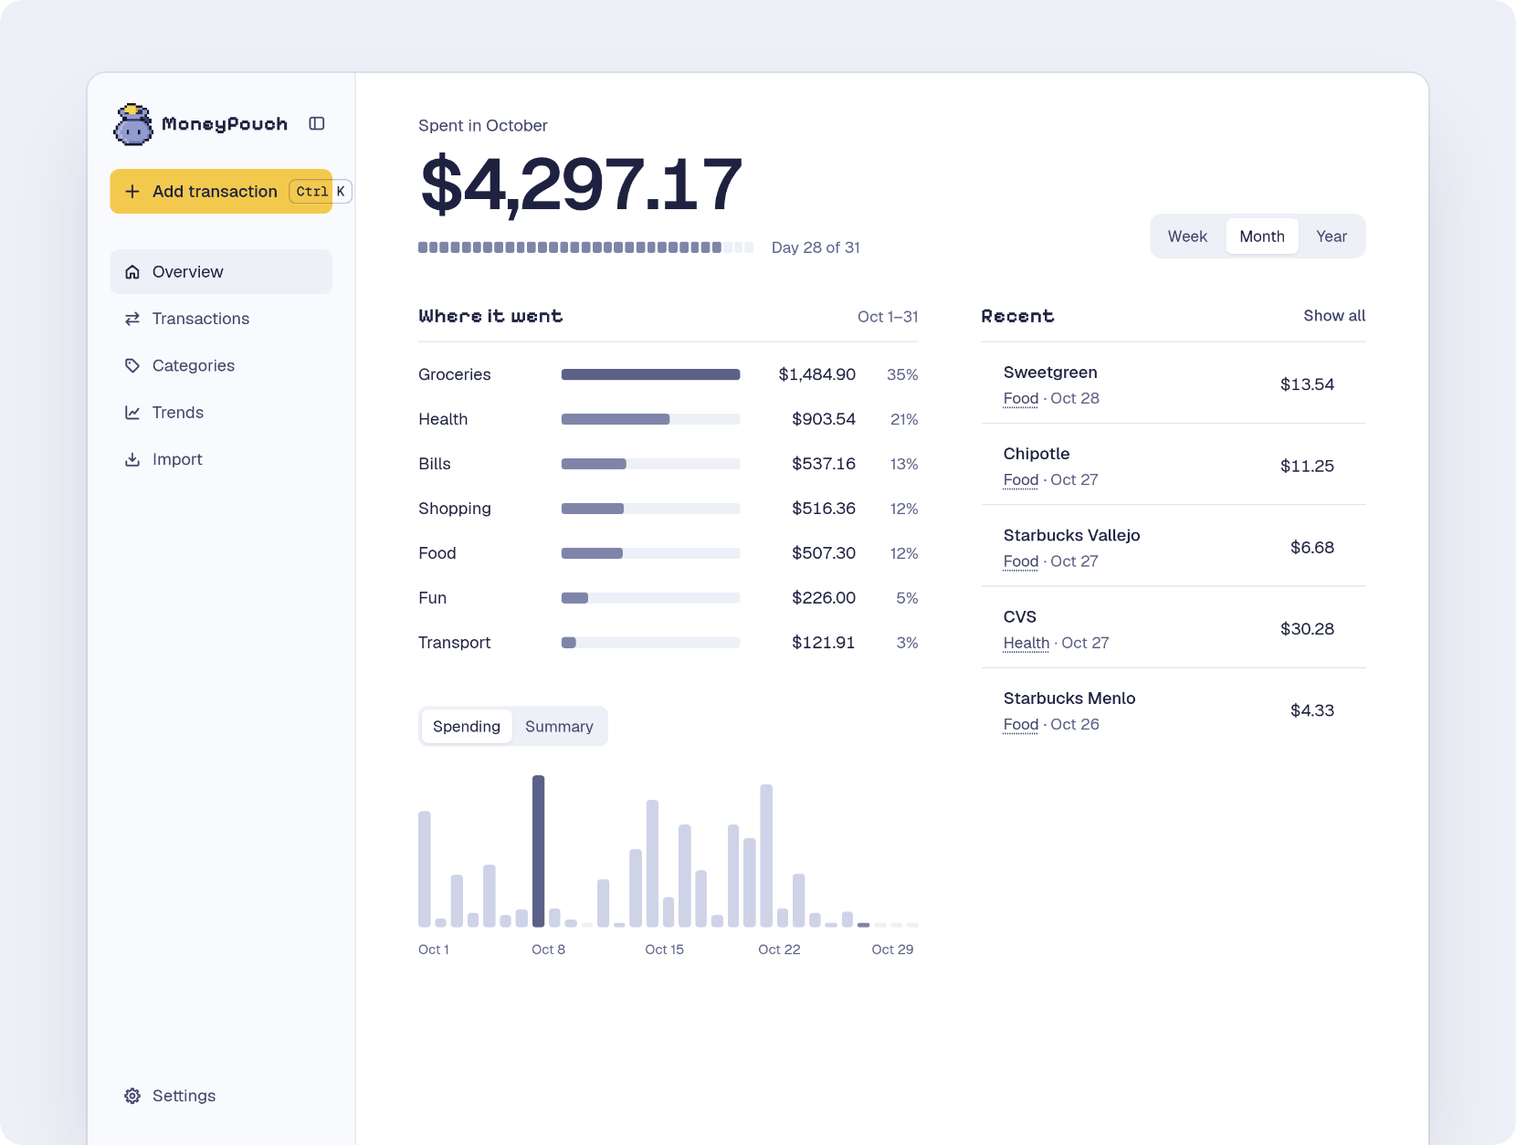
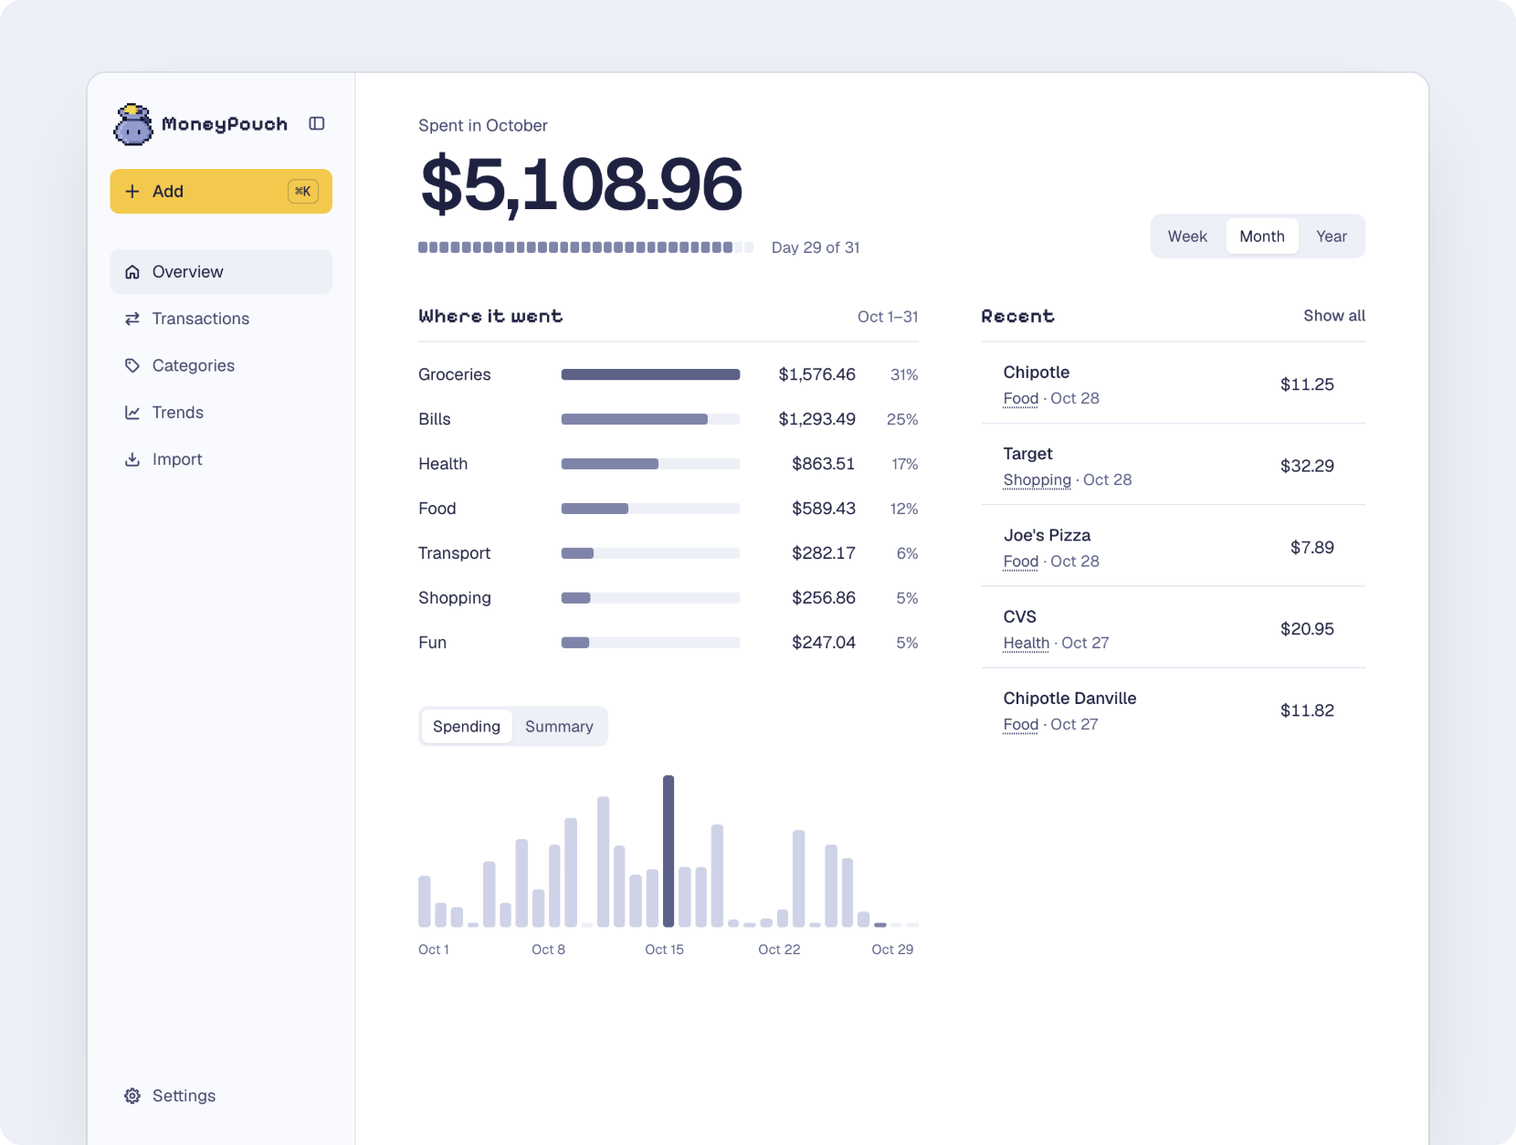
fix(sidebar): keep the Ctrl K chip inside the Add button (#186)
* fix(sidebar): keep the Ctrl K chip inside the Add button

Off a Mac the sidebar's Add transaction button ran its Ctrl K chip 18px
past its right edge. The label is now Add, which fits either chip, and
the sidebar toggle's tooltip names Ctrl B off a Mac instead of always ⌘B.

The verify driver gains a platform command to render as Windows, Mac,
or Linux, and the README script pins Mac so its images match on any host.

* docs(readme): regenerate screenshots with the Add button

diff --git a/test/controllers/welcome_controller_test.rb b/test/controllers/welcome_controller_test.rb
@@ -350,6 +350,16 @@ class WelcomeControllerTest < ActionDispatch::IntegrationTest
     assert_select "html[data-sidebar=expanded]"
   end
 
+  test "names the sidebar shortcut for the browser's platform" do
+    get root_url
+
+    assert_select "button[aria-label='Toggle sidebar'][title=?]", "Toggle sidebar (Ctrl B)"
+
+    get root_url, headers: { "HTTP_USER_AGENT" => "Mozilla/5.0 (Macintosh; Intel Mac OS X 10_15_7) Chrome/130.0" }
+
+    assert_select "button[aria-label='Toggle sidebar'][title=?]", "Toggle sidebar (⌘B)"
+  end
+
   test "marks the added row, shows the toast, and empties the field" do
     post transactions_url, params: { shorthand: "tea 3", idempotency_key: "key-1" }, headers: { "HTTP_REFERER" => root_url }
     follow_redirect!

diff --git a/test/controllers/settings_controller_test.rb b/test/controllers/settings_controller_test.rb
@@ -36,7 +36,7 @@ class SettingsControllerTest < ActionDispatch::IntegrationTest
   test "the sidebar opens the add palette here too" do
     get settings_url
 
-    assert_select "aside button[aria-haspopup=dialog][data-action='dialog-opener#open'][data-dialog-opener-id-param=palette]", text: /Add transaction/
+    assert_select "aside button[aria-haspopup=dialog][data-action='dialog-opener#open'][data-dialog-opener-id-param=palette]", text: /Add/
     assert_select "header button[data-dialog-opener-id-param=palette]", text: /Add/
     assert_select "dialog#palette form[action=?] input[name=shorthand]", transactions_path
   end

diff --git a/.claude/skills/verify-moneypouch/features/composer.md b/.claude/skills/verify-moneypouch/features/composer.md
@@ -9,11 +9,11 @@ Status: built, Q1 to Q6. Every handle below is in the code.
 - Q3, Tab completion. Built, server side. There is no `/completions` endpoint and no name list in the page. While the caret is at the end of the field the preview URL adds `complete=1`, and `Voucher.new(..., complete: true)` looks up the user's kept names that start with the shorthand (2 or more non-space characters, no digit, `#`, `@`, `$`, or `+`), ranked by use count then latest `occurred_on`, and keeps the first longer than the shorthand. The mirror then shows the rest of the completed name dimmed after the caret, then a `Tab` chip, and the status line shows the completed name's category. The row carries `data-shorthand` (the shorthand it was rendered for) and `data-completion` (the full completed name, absent when there is none). Tab replaces the shorthand with that name and a space only when `data-shorthand` equals the field value and the caret is at the end, so `tra` plus Tab gives `Trader Joe's `. Otherwise Tab keeps its normal focus move to `Add ↵`.
 - Q4, `#` category list. Built. The field is `role="combobox"` with `aria-autocomplete="list"`, `aria-controls="composer-popup"`, and `aria-expanded`. The list is `#composer-popup[role="listbox"]`. It opens below the panel (`top-full`) at every width, so the row it previews stays readable, with its left edge under the word at the caret and clamped inside the bar. Up to 8 options show with no scrollbar (`POPUP_SIZES.category` sizes the cap from `--text-base--line-height`, so it follows the type scale), and a longer list scrolls inside, keeping the selected option in view. Options are `#composer-option-<n>[role="option"]` with exactly one `aria-selected="true"`, which the field names in `aria-activedescendant`. The names come from the bar's `data-composer-categories-value` (the user's categories by name, refreshed by the morph after each add), filtered by case-insensitive prefix of the word after `#`. The preview row's `data-inferred-category` goes first. When the word is not exactly a category, the list ends with `New category <word>`. Up and Down move, and a real pointer move over an option selects it, so exactly one option is tinted. An option that opens or redraws under a resting pointer is not selected, so the inferred category stays first and selected. The preview always reads the field as typed, so moving through the list changes nothing under the field. On a bare `#` the row keeps inferring, so it stays the source of the category that leads the list. Tab, Enter, or a click (`mousedown`, so focus stays) write `#<Category> `. Esc closes the list and keeps the text; the palette stays open. The list stays closed only while the caret word is the dismissed one, so deleting the `#` and typing it again reopens it. Enter submits only while no popup is open. A bare `#` is a category marker with no word, so `Trader Joe's 64.12 #` previews the inferred category.
 - Q5, `@` calendar. Built. When the word at the caret is exactly `@`, `#composer-popup` opens below the panel like the category list and shows a month: `‹` and `›` buttons (`[data-months]`), the month title, a `role="grid"` named for the month with `role="row"` weeks and `role="gridcell"` days `#composer-day-YYYY-MM-DD`, and the hints `←↑↓→` move, `↵` pick, `esc` cancel. It always opens on today, which the server supplies as `data-composer-today-value` in the user's zone. The cursor day has `aria-selected="true"` and is the field's `aria-activedescendant`. Left and Right move a day, Up and Down a week, PageUp and PageDown a month with the day clamped to the month's last day. Future days are disabled and greyed, and the cursor stops at today, all behind the controller's one `max` getter. The preview reads the field as typed, so moving the cursor changes nothing under the field. A real pointer move over a past day moves the cursor there, and a grid that redraws under a resting pointer leaves the cursor alone. Tab, Enter, or a click replaces the `@` with `@today`, `@yesterday`, `@sep 24` (this year), or `@sep 24 2025` (another year) plus a space, and the parser reads every date with or without the `@`. Esc closes the calendar and keeps the `@`. Any other key types itself, which closes the calendar. With the caret at the end of `@` plus letters that start `today`, `yesterday`, or a weekday, the mirror shows the rest dimmed with a `Tab` chip, and Tab writes the whole word, so `@y` Tab gives `@yesterday `. The month math and the month markup live in `app/javascript/controllers/composer/calendar.js`.
-- Q6, ⌘K palette. Built. On every page with the sidebar the composer lives in `app/views/shared/_palette.html.erb` under `data-controller="palette"` (`app/javascript/controllers/palette_controller.js`), rendered once by `app/views/shared/_sidebar.html.erb`. `PaletteHelper` supplies its voucher, category names, and just-added row from the flash, so a page needs no instance variables for it. The sidebar shows `Add transaction` with a key chip, `⌘K` when the user agent says Macintosh and `Ctrl K` otherwise (`shortcut("K")` in `TransactionsHelper`); below `md` the top bar shows `Add` (see [sidebar.md](sidebar.md)). A click on either, or ⌘K or Ctrl+K anywhere on the page, calls `showModal()` on `dialog#palette` (`aria-label="Add a transaction"`). The field takes focus. The dialog is 640px wide, centered on the window whatever the sidebar's state, 22vh from the top at `lg` and up and 16px from the top below it, over a `::backdrop` filled with the `scrim` token. Inside, the composer shows an `esc` chip before `Add ↵`. The dialog closes on Esc, a click on the scrim, or ⌘K or Ctrl+K again. Every close fires the dialog's `close` event, and `palette#clear` calls `composer#clear` through the `composer` outlet: the field empties, the preview returns to the legend, and a dismissed `#` list opens again for the same word. Esc while the `#` list or `@` calendar is open goes to the popup only, because the composer's `preventDefault` suppresses the dialog's cancel. The palette stays open after an add, so several adds run back to back. Turbo's morph would strip the `open` attribute, so `palette#keepOpen` cancels `turbo:before-morph-attribute` for it. The same guard keeps it open through the refresh another tab's change broadcasts. On a touch screen (`pointer: coarse`) both key chips are hidden. `/first_transaction` renders the composer inline with no palette and no trigger.
+- Q6, ⌘K palette. Built. On every page with the sidebar the composer lives in `app/views/shared/_palette.html.erb` under `data-controller="palette"` (`app/javascript/controllers/palette_controller.js`), rendered once by `app/views/shared/_sidebar.html.erb`. `PaletteHelper` supplies its voucher, category names, and just-added row from the flash, so a page needs no instance variables for it. The sidebar shows `Add` with a key chip, `⌘K` when the user agent says Macintosh and `Ctrl K` otherwise (`shortcut("K")` in `TransactionsHelper`); below `md` the top bar shows `Add` (see [sidebar.md](sidebar.md)). A click on either, or ⌘K or Ctrl+K anywhere on the page, calls `showModal()` on `dialog#palette` (`aria-label="Add a transaction"`). The field takes focus. The dialog is 640px wide, centered on the window whatever the sidebar's state, 22vh from the top at `lg` and up and 16px from the top below it, over a `::backdrop` filled with the `scrim` token. Inside, the composer shows an `esc` chip before `Add ↵`. The dialog closes on Esc, a click on the scrim, or ⌘K or Ctrl+K again. Every close fires the dialog's `close` event, and `palette#clear` calls `composer#clear` through the `composer` outlet: the field empties, the preview returns to the legend, and a dismissed `#` list opens again for the same word. Esc while the `#` list or `@` calendar is open goes to the popup only, because the composer's `preventDefault` suppresses the dialog's cancel. The palette stays open after an add, so several adds run back to back. Turbo's morph would strip the `open` attribute, so `palette#keepOpen` cancels `turbo:before-morph-attribute` for it. The same guard keeps it open through the refresh another tab's change broadcasts. On a touch screen (`pointer: coarse`) both key chips are hidden. `/first_transaction` renders the composer inline with no palette and no trigger.
 
 ## How to get to it (user POV)
 
-Sign in, and on any page press ⌘K or click `Add transaction` in the sidebar, then type. The composer is one panel: the field on top, the preview frame attached under it as a footer, and the `#` and `@` popups below the panel. On `/first_transaction` the same panel is inline, with no palette. Everything happens in that one field with the keyboard. The only other surfaces are Recent on the same page, the toast, and `/transactions` for discarding a row.
+Sign in, and on any page press ⌘K or click `Add` in the sidebar, then type. The composer is one panel: the field on top, the preview frame attached under it as a footer, and the `#` and `@` popups below the panel. On `/first_transaction` the same panel is inline, with no palette. Everything happens in that one field with the keyboard. The only other surfaces are Recent on the same page, the toast, and `/transactions` for discarding a row.
 
 ## Driving it with mp.mjs
 

diff --git a/.claude/skills/verify-moneypouch/SKILL.md b/.claude/skills/verify-moneypouch/SKILL.md
@@ -37,7 +37,7 @@ Per-instance state lives in `tmp/verify/<port>/` (gitignored): `state.json`, `se
 $M doctor --port 3101
 ```
 
-Prints JSON with `serverAlive`, `chromeAlive`, `holderAlive`, `up` (the `/up` status), the current `url`, `mode`, `theme`, the recorded `viewport`, the live `inner` size, the emulated `timezone`, and the mp4 path being `recording`, if any. Exit 1 when the server or Chrome is down, `/up` is not 200, the viewport holder is dead, or `inner` differs from `viewport`. Run it first whenever a drive behaves oddly. A port that is busy with a process this skill did not start makes `boot` refuse with an error instead of attaching.
+Prints JSON with `serverAlive`, `chromeAlive`, `holderAlive`, `up` (the `/up` status), the current `url`, `mode`, `theme`, the recorded `viewport`, the live `inner` size, the emulated `timezone` and `platform`, and the mp4 path being `recording`, if any. Exit 1 when the server or Chrome is down, `/up` is not 200, the viewport holder is dead, or `inner` differs from `viewport`. Run it first whenever a drive behaves oddly. A port that is busy with a process this skill did not start makes `boot` refuse with an error instead of attaching.
 
 ## Drive
 
@@ -61,10 +61,11 @@ Prints JSON with `serverAlive`, `chromeAlive`, `holderAlive`, `up` (the `/up` st
 | Read-only query | `$M query 'Transaction.count'` |
 | Restart the server under the page | `$M server stop --port N` kills only the Rails server; Chrome, the page, the field text, and focus stay. Requests now fail as they would on a dropped server. `$M server start --port N` starts it again and waits for `/up` without touching the page. |
 | Browser time zone | `$M zone Pacific/Kiritimati --port N`, then `$M goto / --port N` so the page reads it on load. The holder keeps the override between commands. `$M zone off` returns to the host zone. `doctor` prints it. This changes what the browser reports, the real path, so prefer it over writing a cookie with `js`. |
+| Browser platform | `$M platform windows --port N`, then `$M goto / --port N` so the server reads it. Sends a Windows, Mac (`mac`), or Linux (`linux`) user agent and `navigator.platform`, so shortcut chips render as `Ctrl K` or `⌘K`. The holder keeps the override between commands. `$M platform off` returns to the host's own. `doctor` prints it. |
 | Video | `$M record start /tmp/x/review.mp4 --port N`, drive, `$M record stop --port N`. Prints the path, length, and frame count. A detached recorder screencasts the page at the viewport size, and `stop` encodes 30 fps H.264 with `ffmpeg` (must be on PATH). Frames arrive only when the page changes, and the encoder holds each one until the next, so wall time is kept. |
 | Keypress-to-paint latency | `$M latency a --end turbo:frame-render --log /tmp/x/lat.jsonl --port N` presses the key and prints ms from its `keydown` timestamp to the first paint after the named event fires on the document (any bubbling event: `turbo:frame-render`, `turbo:morph`, `turbo:render`). `--end paint` measures to the next paint with no event, for client-only UI such as a menu or calendar. It first waits until the event has been quiet for 250 ms, so a late render from an earlier key is not counted. A sample with no event in 5 s logs `null` and exits 1. `$M latency --report /tmp/x/lat.jsonl` prints `{"n","timeouts","p50","p95","max"}`. |
 
-Common handles: the sidebar's Add transaction button `aside button[data-dialog-opener-id-param=palette]` and `dialog#palette` (open it with `key Meta+k` before typing on any page with the sidebar), composer input `[aria-label="Add"]`, preview frame `turbo-frame#voucher`, popup `#composer-popup`, toast `[data-controller="toast"]` with Undo `[data-palette-target="undo"]`, theme buttons `button[data-theme="light"|"dark"]`, sign-in fields `#username` and `#password`, flash `#alert` and `#notice`, the Import page's file input `input[type=file]`. The full import list is in [features/import.md](features/import.md). The full composer list is in [features/composer.md](features/composer.md).
+Common handles: the sidebar's Add button `aside button[data-dialog-opener-id-param=palette]` and `dialog#palette` (open it with `key Meta+k` before typing on any page with the sidebar), composer input `[aria-label="Add"]`, preview frame `turbo-frame#voucher`, popup `#composer-popup`, toast `[data-controller="toast"]` with Undo `[data-palette-target="undo"]`, theme buttons `button[data-theme="light"|"dark"]`, sign-in fields `#username` and `#password`, flash `#alert` and `#notice`, the Import page's file input `input[type=file]`. The full import list is in [features/import.md](features/import.md). The full composer list is in [features/composer.md](features/composer.md).
 
 `query` evaluates the Ruby expression in `bin/rails runner` after reopening the database with SQLite `readonly: true`. `User.delete_all` and every other write fails with `SQLite3::ReadOnlyException`. The guard is the database connection, not a Ruby sandbox: `File.write` and `system` still run, so treat the expression as trusted input. It talks to the development database, so it needs no running instance.
 

diff --git a/.claude/skills/verify-moneypouch/features/sidebar.md b/.claude/skills/verify-moneypouch/features/sidebar.md
@@ -3,10 +3,10 @@
 ## Sub-features
 
 - Collapse to an icon rail and expand again with the panel button in the brand row. The state is `html[data-sidebar]`, `expanded` or `collapsed`, and persists in a `sidebar` cookie (`collapsed` when collapsed, anything else or no cookie means expanded). It is per device, with no database column.
-- ⌘B (Ctrl+B) toggles it from anywhere on the page, including while typing in the palette. The toggle button names the shortcut in its `title` and `aria-keyshortcuts`.
+- ⌘B (Ctrl+B) toggles it from anywhere on the page, including while typing in the palette. The toggle button names the shortcut in its `title` (`⌘B` on a Mac, `Ctrl B` elsewhere) and `aria-keyshortcuts`.
 - Expanded the sidebar is 240px wide. Collapsed it is 64px: the pouch and wordmark hide, the toggle sits alone in the brand row, and nav links and Settings are 40x36 icon squares.
 - Collapsed, each link's label becomes a tooltip to the right of the icon on hover and keyboard focus. The accessible name is the label in both states.
-- `Add transaction` sits between the brand row and the nav: a gold button with a plus icon and the `⌘K` chip (`Ctrl K` off a Mac, hidden on touch screens). It is `dialog-opener#open` for `dialog#palette`, which `_sidebar.html.erb` renders once on every page that has the sidebar. Collapsed it is a 40x36 gold plus square whose label is a tooltip like the links'. Below `md` it is hidden in the sheet, and the top bar shows a gold `Add` button at its right edge instead.
+- `Add` sits between the brand row and the nav: a gold button with a plus icon and the `⌘K` chip (`Ctrl K` off a Mac, hidden on touch screens). The label is the one word so the wider `Ctrl K` chip still fits inside the 240px sidebar. It is `dialog-opener#open` for `dialog#palette`, which `_sidebar.html.erb` renders once on every page that has the sidebar. Collapsed it is a 40x36 gold plus square whose label is a tooltip like the links'. Below `md` it is hidden in the sheet, and the top bar shows a gold `Add` button at its right edge instead.
 - `--container-sidebar` drops from 240px to 64px when collapsed, so the toast re-centers in the content area. The ⌘K palette is centered on the window and does not move.
 - The server renders `data-sidebar` and the toggle's `aria-expanded` from the cookie, so the first paint has no flash.
 - Below `md` the sidebar is a sheet. A top bar copies the brand row, and its button (`Show sidebar`) opens a modal `dialog[aria-label=Sidebar]`, 240px wide at the left edge, with the same links over a scrim. The page behind is inert and does not scroll. The open button sits at the left of the top bar, under the sheet, so only the sheet's `Hide sidebar` button shows. It closes on `Hide sidebar`, Escape, a tap on the scrim (the tap does not reach the page under it), any link (and stays closed on Back), a page morph, and a resize to `md` or wider. The collapsed cookie never shrinks the sheet.

diff --git a/.claude/skills/verify-moneypouch/features/overview.md b/.claude/skills/verify-moneypouch/features/overview.md
@@ -2,7 +2,7 @@
 
 ## Sub-features
 
-- The sidebar's `Add transaction` button with its `⌘K` chip, and `Add` in the top bar below `md`. Either, or ⌘K or Ctrl+K, opens the composer in `dialog#palette` over a scrim. See [composer.md](composer.md), Q6.
+- The sidebar's `Add` button with its `⌘K` chip, and `Add` in the top bar below `md`. Either, or ⌘K or Ctrl+K, opens the composer in `dialog#palette` over a scrim. See [composer.md](composer.md), Q6.
 - Spent total, category breakdown, and chart for one period, read by `Spending` over `Period` (`app/models/spending.rb`, `app/models/period.rb`). `/?period=week|month|year` picks it, and anything else means month. The heading reads `Spent this week`, `Spent in October`, or `Spent in 2026`. Under it, the day strip and `Day N of M`: days through today are slate (`bg-data`), the rest the pale track. Gold (`bg-highlight`) on the Overview is only for what needs the user: the `From your bank` count, the dots on rows that need a category, and the `Uncategorized` bar in the category list.
 - Every category is spending or income (`categories.income`), and every user starts with a built-in `Income` category (`User#income_category`). Spending is `Transaction.spending`: counted (`Transaction.counted`: not a transfer and not excluded), and either in a spending category (any sign) or money out with no category. Money in a spending category nets against it (a `+$20 #Groceries` refund lowers Groceries and the total by $20). Money in an income category, such as a typed `paycheck +2400`, stays out.
 - Where it went lists each category whose period nets above zero, largest first, with shares of the listed categories' sum. A category that only got money back is left out but still lowers the total. It lists rows without a category as `Uncategorized`, and the period's dates on the right, such as `Oct 1–31`. With no spending it reads `Nothing spent this week.`

diff --git a/.claude/skills/verify-moneypouch/features/README.md b/.claude/skills/verify-moneypouch/features/README.md
@@ -4,7 +4,7 @@
 - [password-reset.md](password-reset.md). The owner's Reset link in Settings, the one-use reset page, the sign-in hint, and the `password:reset` rake task.
 - [overview.md](overview.md). The signed-in Overview with the composer and sidebar.
 - [onboarding.md](onboarding.md). Create account, the first transaction page, Skip for now, landing on the Overview.
-- [sidebar.md](sidebar.md). The collapsible sidebar, its cookie, tooltips, and the Add transaction button.
+- [sidebar.md](sidebar.md). The collapsible sidebar, its cookie, tooltips, and the Add button.
 - [theme.md](theme.md). Light and dark switch on the Settings page.
 - [add-transaction.md](add-transaction.md). The composer and demo data.
 - [transactions.md](transactions.md). The month ledger at `/transactions`: totals, month switcher, filters, day-grouped rows, and the phone sheet.

diff --git a/.claude/skills/verify-moneypouch/features/add-transaction.md b/.claude/skills/verify-moneypouch/features/add-transaction.md
@@ -9,7 +9,7 @@
 
 ## How to get to it (user POV)
 
-Sign in. On any page with the sidebar press ⌘K or click `Add transaction` at the top of the sidebar (`Add` in the top bar below `md`) to open the composer. Type shorthand such as `coffee 5.50 yesterday`, then press Enter or click `Add ↵`. The sidebar's Transactions link opens `/transactions`.
+Sign in. On any page with the sidebar press ⌘K or click `Add` at the top of the sidebar (in the top bar below `md`) to open the composer. Type shorthand such as `coffee 5.50 yesterday`, then press Enter or click `Add ↵`. The sidebar's Transactions link opens `/transactions`.
 
 ## Driving it with mp.mjs
 
